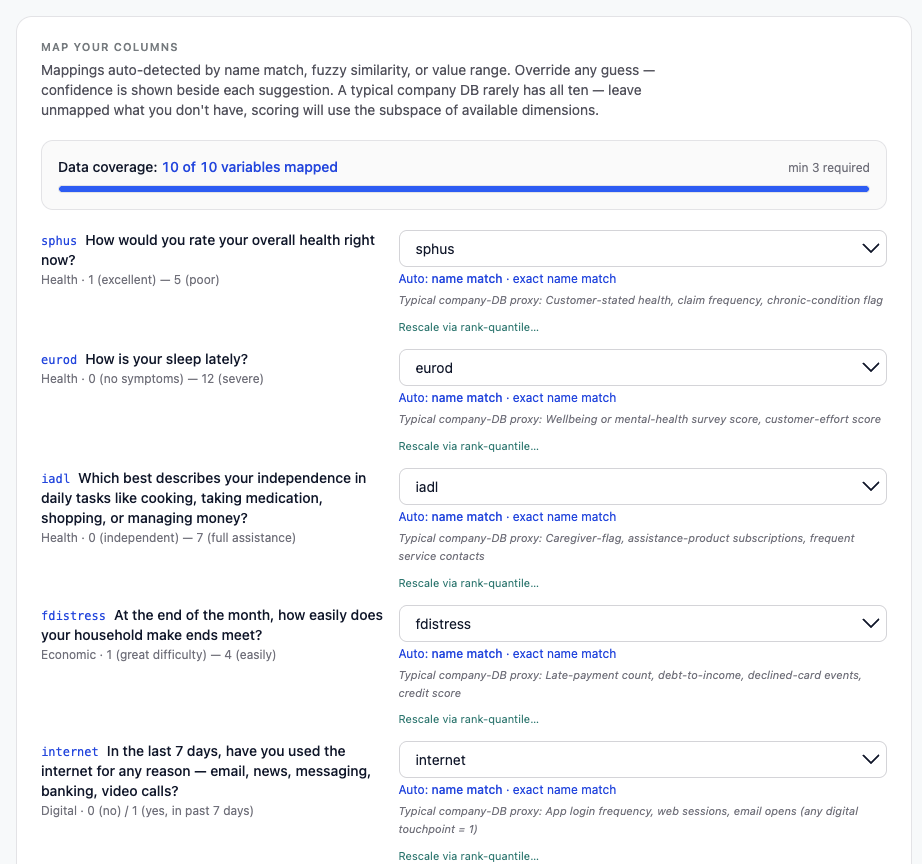
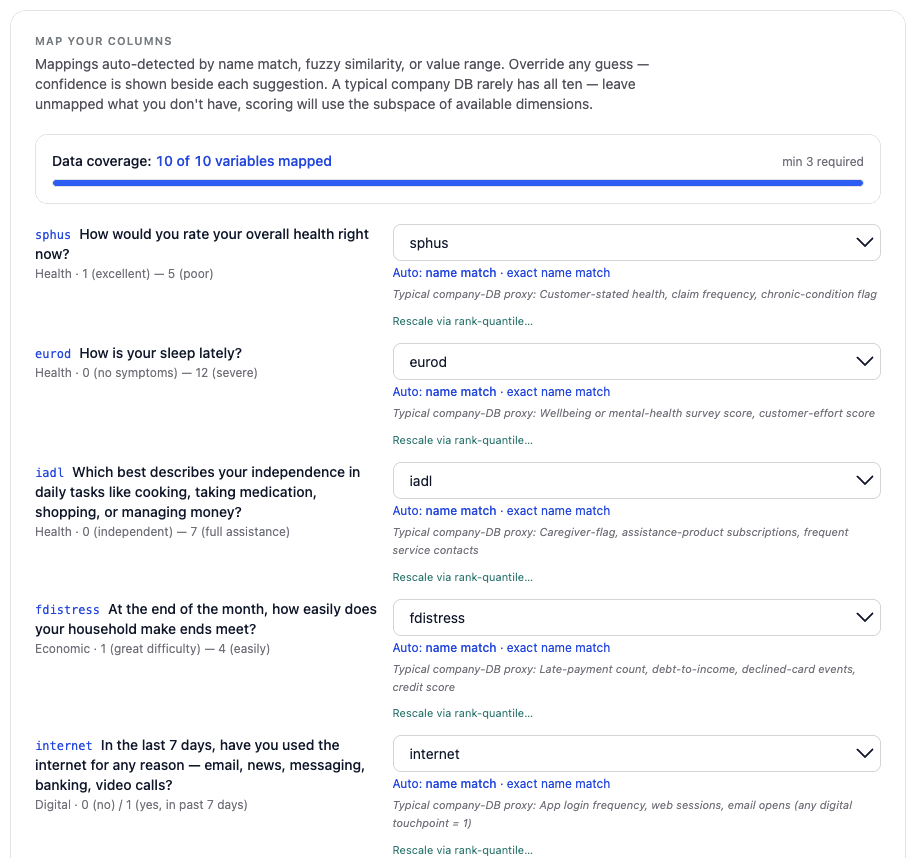
Ch8 figures: trim + uniform grey frame + balanced widths, convert screenshots to PNG

diff --git a/Invisible_Profiles_LaTeX_Overleaf/chapters/chapter8.tex b/Invisible_Profiles_LaTeX_Overleaf/chapters/chapter8.tex
@@ -1,6 +1,9 @@
 \chaptertitlepage{The Italian Silver Atlas}{An operational instrument for the social-mediation layer}
 \label{ch:atlas}
 
+% uniform framed screenshot helper (thin grey rule + even inner padding)
+\newcommand{\atlasshot}[2]{{\setlength{\fboxsep}{5pt}\setlength{\fboxrule}{0.5pt}\fcolorbox{black!22}{white}{\includegraphics[width=#2]{#1}}}}
+
 \section{Overview}
 \label{sec:atlas-overview}
 
@@ -22,7 +25,7 @@ The user uploads a CSV with one row per individual and maps the available column
 
 \begin{figure}[!htbp]
   \centering
-  \includegraphics[width=0.9\linewidth]{figures/webapp/webapp_06_mapping_wizard}
+  \atlasshot{figures/webapp/webapp_06_mapping_wizard}{0.72\linewidth}
   \caption[Italian Silver Atlas, column-mapping wizard]{Column-mapping wizard. Each of the ten profiler variables is presented as a plain-language question with its SHARE coding range, an auto-detected mapping with a confidence label, a typical company-database proxy, and an optional rank-quantile rescaling control. The coverage meter (here ten of ten) governs how many dimensions enter the scoring subspace.}
   \label{fig:atlas-wizard}
 \end{figure}
@@ -33,7 +36,7 @@ Scoring produces the cohort dashboard (Figure~\ref{fig:atlas-dashboard}). Four h
 
 \begin{figure}[!htbp]
   \centering
-  \includegraphics[width=0.8\linewidth]{figures/webapp/webapp_10_cohort_dashboard}
+  \atlasshot{figures/webapp/webapp_10_cohort_dashboard}{0.62\linewidth}
   \caption[Italian Silver Atlas, cohort dashboard]{Cohort dashboard for a thirty-record test cohort. Headline cards report cohort size, the Isolation Paradox flag, the digitally-addressable share and the intermediated-need share, each with its delta against the national SHARE baseline; the statistical-fit line reports a Pearson $\chi^2$ test of the cohort against the national distribution; the cluster-distribution chart plots cohort shares (thick bars) against the SHARE Wave~9 baseline (thin bars).}
   \label{fig:atlas-dashboard}
 \end{figure}
@@ -45,14 +48,14 @@ Clicking any archetype opens a cluster dossier (Figure~\ref{fig:atlas-drilldown}
 
 \begin{figure}[!htbp]
   \centering
-  \includegraphics[width=0.6\linewidth]{figures/webapp/webapp_11_drilldown_moderate_isolated}
+  \atlasshot{figures/webapp/webapp_11_drilldown_moderate_isolated}{0.52\linewidth}
   \caption[Italian Silver Atlas, cluster dossier]{Cluster dossier for the Moderate Isolated segment of the test cohort. The dossier pairs the per-record confidence summary (the evidence ladder of \S\ref{sec:atlas-scoring}) with the cohort-versus-SHARE cluster signature and the segment's national-level healthcare-engagement gaps, translating a population share into an operational brief.}
   \label{fig:atlas-drilldown}
 \end{figure}
 
 \begin{figure}[!htbp]
   \centering
-  \includegraphics[width=0.95\linewidth]{figures/webapp/webapp_12_per_row_prediction}
+  \atlasshot{figures/webapp/webapp_12_per_row_prediction}{0.9\linewidth}
   \caption[Italian Silver Atlas, per-record prediction]{Per-record prediction table. Each individual is assigned a closest profile, an evidence label (Strong/Moderate/Weak), the top-two profile probabilities from the imputation distribution, a within-cohort distance percentile, and a cross-country twin.}
   \label{fig:atlas-perrow}
 \end{figure}
@@ -68,7 +71,7 @@ Scoring operates on the ten profiler variables in the within-country standardise
 
 \begin{figure}[!htbp]
   \centering
-  \includegraphics[width=0.82\linewidth]{figures/webapp/webapp_07_sample_skew_ks}
+  \atlasshot{figures/webapp/webapp_07_sample_skew_ks}{0.9\linewidth}
   \caption[Italian Silver Atlas, sample-skew pre-flight]{Sample-skew pre-flight. A non-blocking panel reports, for each mapped variable, a two-sample Kolmogorov--Smirnov comparison of the cohort against the SHARE Wave~9 reference, flagging the dimensions on which the transported assignment is least reliable.}
   \label{fig:atlas-ks}
 \end{figure}
